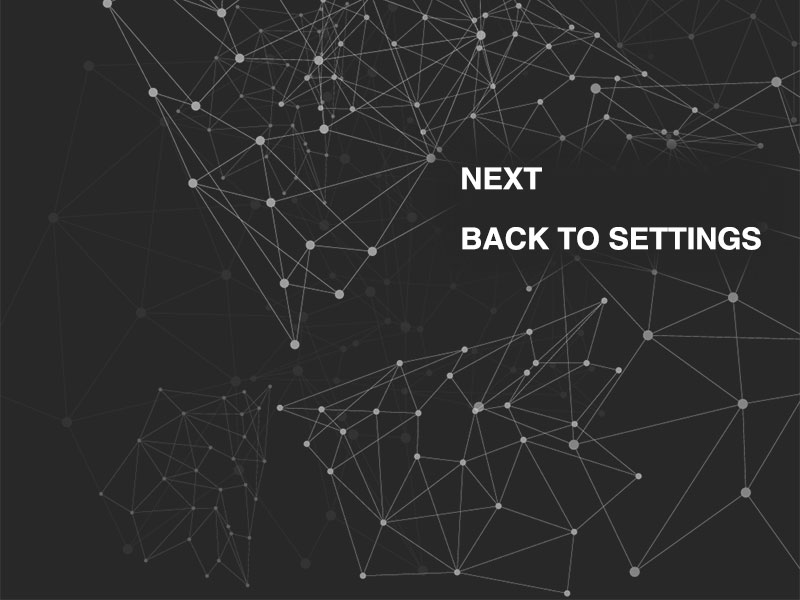
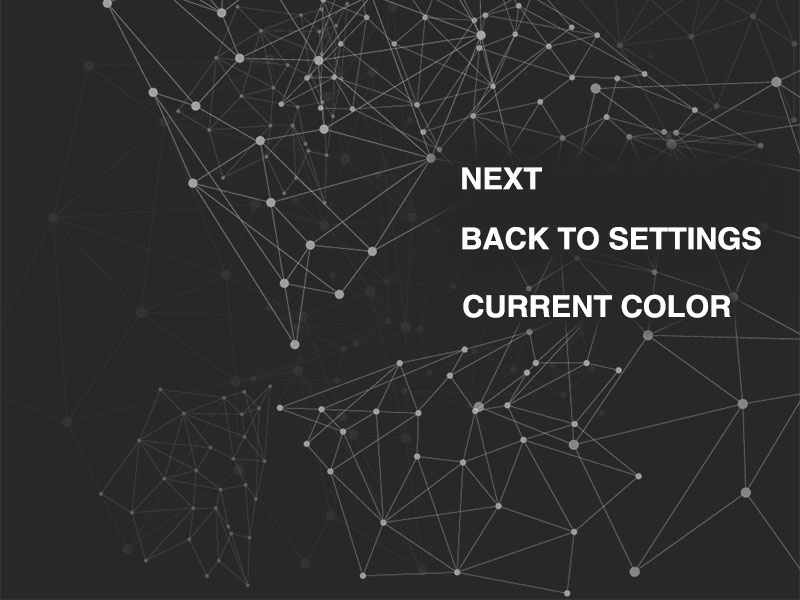
Application/

Changed region(s): [[0.5625, 0.48, 0.9375, 0.54]]

diff --git a/Application/main.cpp b/Application/main.cpp
@@ -24,8 +24,9 @@ int chooseNumberOfPointsPage = -1;
 int settingsPage             = -1;
 int chooseFirstToWinPage     = -1;
 int gamePage                 = -1;
+int howtoplay                = -1;
+int EndOfGame                = -1;
 ///-------------------------------------------------------------------------------------------------
-
 ///---------------- Geometry structs ---------------------------------------------------------------
 struct CPoint
 {
@@ -113,7 +114,6 @@ void    SetColorPlayer1  (CTable &table, int color    ) ;
 void    SetColorPlayer2  (CTable &table, int color    ) ;
 ///-------------------------------------------------------------------------------------------------
 
-
 ///---------------- Main Function ------------------------------------------------------------------
 int main()
 {
@@ -140,6 +140,22 @@ int main()
 
         if(x == -1 && y == -1) continue;
 
+        if(x >= 40 && x <= 360 && y >= 380 && y <= 460 && getcurrentwindow() == mainPage)
+        {
+            int currentWindow = getcurrentwindow();
+            howtoplay = initwindow(DEFAULT_WIDTH, DEFAULT_HEIGHT, "How To Play");
+            setcurrentwindow(howtoplay);
+            closegraph(currentWindow);
+            HowToPlay();
+        }
+        if(x >= 630 && x <= 750 && y >= 540 && y <= 580 && getcurrentwindow() == howtoplay)
+        {
+            int currentWindow = getcurrentwindow();
+            mainPage = initwindow(DEFAULT_WIDTH, DEFAULT_HEIGHT, "Segments Game");
+            setcurrentwindow(mainPage);
+            closegraph(currentWindow);
+            Menu();
+        }
         if(x >= 40 && x <= 380 && y >= 460 && y <= 510 && getcurrentwindow() == mainPage)
         {
             int currentWindow = getcurrentwindow();
@@ -167,6 +183,10 @@ int main()
             setcurrentwindow(chooseColorPlayer1Page);
             closegraph(currentWindow);
             Player1Color();
+            setcolor(table.settings.colorOfPlayer1);
+            setfillstyle(SOLID_FILL,table.settings.colorOfPlayer1);
+            rectangle(521,341,640,460);
+            floodfill(522,342,table.settings.colorOfPlayer1);
             continue;
         }
 
@@ -204,6 +224,22 @@ int main()
         if(x >= 180 && x <= 620 && y >= 210 && y <= 260 && getcurrentwindow() == chooseGameTypePage)
         {
             SetGameWithBot(table, false);
+
+            setcolor(12);
+            setfillstyle(SOLID_FILL,12);
+            rectangle(180,260,620,265);
+            floodfill(181,261,12);
+
+            setcolor(15);
+            setfillstyle(SOLID_FILL,15);
+            rectangle(80,320,720,325);
+            floodfill(81,321,15);
+
+            setcolor(15);
+            setfillstyle(SOLID_FILL,15);
+            rectangle(80,380,720,385);
+            floodfill(81,381,15);
+
             continue;
         }
 
@@ -211,6 +247,22 @@ int main()
         {
             SetGameWithBot(table, true);
             SetBotLevel(table, 1);
+
+            setcolor(12);
+            setfillstyle(SOLID_FILL,12);
+            rectangle(80,320,720,325);
+            floodfill(81,321,12);
+
+            setcolor(15);
+            setfillstyle(SOLID_FILL,15);
+            rectangle(180,260,620,265);
+            floodfill(181,261,15);
+
+            setcolor(15);
+            setfillstyle(SOLID_FILL,15);
+            rectangle(80,380,720,385);
+            floodfill(81,381,15);
+
             continue;
         }
 
@@ -218,6 +270,22 @@ int main()
         {
             SetGameWithBot(table, true);
             SetBotLevel(table, 2);
+
+            setcolor(12);
+            setfillstyle(SOLID_FILL,12);
+            rectangle(80,380,720,385);
+            floodfill(81,381,12);
+
+            setcolor(15);
+            setfillstyle(SOLID_FILL,15);
+            rectangle(180,260,620,265);
+            floodfill(181,261,15);
+
+            setcolor(15);
+            setfillstyle(SOLID_FILL,15);
+            rectangle(80,320,720,325);
+            floodfill(81,321,15);
+
             continue;
         }
 
@@ -277,11 +345,16 @@ int main()
 
         if(getcurrentwindow() == chooseColorPlayer1Page)
         {
+
             if(getpixel(x, y) >= 1  &&
                getpixel(x, y) <= 14 &&
                getpixel(x, y) != table.settings.colorOfPlayer2)
             {
                 SetColorPlayer1(table, getpixel(x, y));
+                setcolor(table.settings.colorOfPlayer1);
+                setfillstyle(SOLID_FILL,table.settings.colorOfPlayer1);
+                rectangle(521,341,640,460);
+                floodfill(522,342,table.settings.colorOfPlayer1);
                 continue;
             }
 
@@ -292,6 +365,10 @@ int main()
                 setcurrentwindow(chooseColorPlayer2Page);
                 closegraph(currentWindow);
                 Player2Color();
+                setcolor(table.settings.colorOfPlayer2);
+                setfillstyle(SOLID_FILL,table.settings.colorOfPlayer2);
+                rectangle(521,341,640,460);
+                floodfill(522,342,table.settings.colorOfPlayer2);
                 continue;
             }
 
@@ -313,6 +390,11 @@ int main()
               getpixel(x, y) != table.settings.colorOfPlayer1)
             {
                 SetColorPlayer2(table, getpixel(x, y));
+                setcolor(table.settings.colorOfPlayer2);
+                setfillstyle(SOLID_FILL,table.settings.colorOfPlayer2);
+                rectangle(521,341,640,460);
+                floodfill(522,342,table.settings.colorOfPlayer2);
+
                 continue;
             }
 
@@ -571,7 +653,7 @@ void PaintPoints(CTable &table)
 {
     for(int pInd = 1; pInd <= table.settings.numberOfPoints; pInd++)
     {
-        setcolor(WHITE);
+
         fillellipse(table.points[pInd].x, table.points[pInd].y, table.radiusPoints, table.radiusPoints);
     }
 }
@@ -589,14 +671,17 @@ void SetupTable(CTable &table)
 ///---------------- Engine of the game -------------------------------------------------------------
 void StartGame(CTable &table)
 {
+    int current = 1;
     table.firstWinnings = 0;
     table.secondWinnings = 0;
     do
     {
+
         cleardevice();
         SetupTable(table);
         GenerateNRandomPoints(table);
         PaintPoints(table);
+        setcolor(table.settings.colorOfPlayer1);
 
         int playerToMove = 0; // 0 - first, 1 - second
 
@@ -617,13 +702,11 @@ void StartGame(CTable &table)
                         if(firstPointIndex == -1)
                         {
                             firstPointIndex = x;
-                            setcolor(RED);
                             fillellipse(table.points[firstPointIndex].x, table.points[firstPointIndex].y, table.radiusPoints, table.radiusPoints);
                         }
                         else
                         {
                             secondPointIndex = x;
-                            setcolor(RED);
                             fillellipse(table.points[secondPointIndex].x, table.points[secondPointIndex].y, table.radiusPoints, table.radiusPoints);
                         }
                     }
@@ -634,10 +717,20 @@ void StartGame(CTable &table)
             {
                 PaintLinePts(table, firstPointIndex, secondPointIndex);
                 playerToMove = 1 - playerToMove;
+                if(current == 1)
+                {
+                    current = 2;
+                    setcolor(table.settings.colorOfPlayer2);
+                }
+                else
+                {
+                    current = 1;
+                    setcolor(table.settings.colorOfPlayer1);
+                }
+
             }
             else
             {
-                setcolor(WHITE);
                 fillellipse(table.points[firstPointIndex].x, table.points[firstPointIndex].y, table.radiusPoints, table.radiusPoints);
                 fillellipse(table.points[secondPointIndex].x, table.points[secondPointIndex].y, table.radiusPoints, table.radiusPoints);
             }
@@ -650,11 +743,13 @@ void StartGame(CTable &table)
         {
             outtextxy(20, 40, "Player 1 wins");
             table.firstWinnings++;
+            current = 1;
         }
         else
         {
             outtextxy(20, 60, "Player 2 wins");
             table.secondWinnings++;
+            current = 1;
         }
         outtextxy(20, 80, "Current score: ");
         char p[10];
@@ -668,10 +763,25 @@ void StartGame(CTable &table)
         closegraph(statusWindow);
     }
     while(max(table.firstWinnings, table.secondWinnings) < table.settings.firstToWin);
-
+    if(table.secondWinnings > table.firstWinnings)
+    {
+        EndOfGame = initwindow (DEFAULT_WIDTH,DEFAULT_HEIGHT, "Winner");
+        setcurrentwindow(EndOfGame);
+        Player1Won();
+        closegraph(gamePage);
+        delay(5000);
+    }
+    if(table.firstWinnings > table.secondWinnings)
+    {
+        EndOfGame = initwindow (DEFAULT_WIDTH,DEFAULT_HEIGHT, "Winner");
+        setcurrentwindow(EndOfGame);
+        closegraph(gamePage);
+        Player2Won();
+        delay(5000);
+    }
     mainPage = initwindow(DEFAULT_WIDTH, DEFAULT_HEIGHT, "Segments Game");
     setcurrentwindow(mainPage);
-    closegraph(gamePage);
+    closegraph(EndOfGame);
     Menu();
 }
 ///-------------------------------------------------------------------------------------------------
@@ -729,14 +839,13 @@ void PaintLinePts(CTable &table, int &pIndex1, int &pIndex2)
     table.isSelected[pIndex1]  = true;
     table.isSelected[pIndex2] = true;
 
-    setcolor(RED);
-
     line(table.points[pIndex1].x, table.points[pIndex1].y,
          table.points[pIndex2].x, table.points[pIndex2].y);
 
     ++table.numberOfSegments;
     table.segments[table.numberOfSegments].A = table.points[pIndex1] ;
     table.segments[table.numberOfSegments].B = table.points[pIndex2];
+
 }
 ///-------------------------------------------------------------------------------------------------
 

diff --git a/Application/personalGraphic.cpp b/Application/personalGraphic.cpp
@@ -10,6 +10,9 @@ const char *img3 = "SettingsMenu.jpg";
 const char *img4 = "GameMode.jpg";
 const char *img5 = "Color1.jpg";
 const char *img6 = "Color2.jpg";
+const char *img7 = "HowToPlay.jpg";
+const char *img8 = "Player2Won.jpg";
+const char *img9 = "Player1Won.jpg";
 
 /// -----------------------------------------------SETTINGS MENU SELECTARE CULORI-----------------------------------------------------------///
 
@@ -79,19 +82,13 @@ int Player1Color()
 
     setcolor(13);
     setfillstyle(SOLID_FILL,13);
-    rectangle(0,481,120,600);
-    floodfill(1,482,13);
+    rectangle(60,481,180,600);
+    floodfill(61,482,13);
 
     setcolor(14);
     setfillstyle(SOLID_FILL,14);
-    rectangle(121,481,240,600);
-    floodfill(122,482,14);
-
-    setcolor(15);
-    setfillstyle(SOLID_FILL,15);
-    rectangle(241,481,360,600);
-    floodfill(242,482,15);
-
+    rectangle(181,481,300,600);
+    floodfill(182,482,14);
 
 }
 int Player2Color()
@@ -161,19 +158,13 @@ int Player2Color()
 
     setcolor(13);
     setfillstyle(SOLID_FILL,13);
-    rectangle(0,481,120,600);
-    floodfill(1,482,13);
+    rectangle(60,481,180,600);
+    floodfill(61,482,13);
 
     setcolor(14);
     setfillstyle(SOLID_FILL,14);
-    rectangle(121,481,240,600);
-    floodfill(122,482,14);
-
-    setcolor(15);
-    setfillstyle(SOLID_FILL,15);
-    rectangle(241,481,360,600);
-    floodfill(242,482,15);
-
+    rectangle(181,481,300,600);
+    floodfill(182,482,14);
 
 }
 void settingsPageWindow()
@@ -204,6 +195,20 @@ void Menu()
 void GameType()
 {
     readimagefile(img4,0,0,800,600);
+    setcolor(15);
+    setfillstyle(SOLID_FILL,15);
+    rectangle(180,260,620,265);
+    floodfill(181,261,15);
+
+    setcolor(15);
+    setfillstyle(SOLID_FILL,15);
+    rectangle(80,320,720,325);
+    floodfill(81,321,15);
+
+    setcolor(15);
+    setfillstyle(SOLID_FILL,15);
+    rectangle(80,380,720,385);
+    floodfill(81,381,15);
 }
 
 void ConvertFromIntToString(char where[], int what) {
@@ -221,4 +226,16 @@ void ConvertFromIntToString(char where[], int what) {
     }
 
     where[digits[0]] = 0;
+}
+void HowToPlay()
+{
+    readimagefile(img7,0,0,800,600);
+}
+void Player1Won()
+{
+    readimagefile(img8,0,0,800,600);
+}
+void Player2Won()
+{
+    readimagefile(img9,0,0,800,600);
 }

diff --git a/Application/personalGraphic.h b/Application/personalGraphic.h
@@ -12,3 +12,6 @@ void NumberOfPointsPage();
 void Menu();
 void GameType();
 void ConvertFromIntToString(char where[], int what);
+void HowToPlay();
+void Player1Won();
+void Player2Won();
